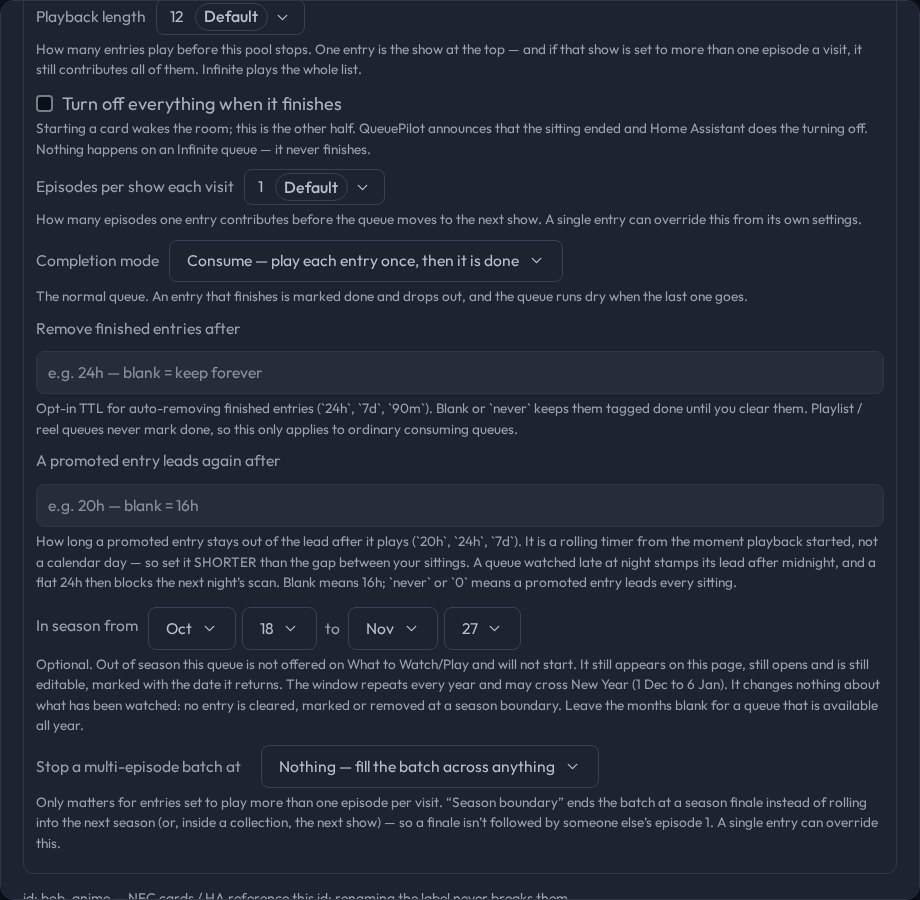
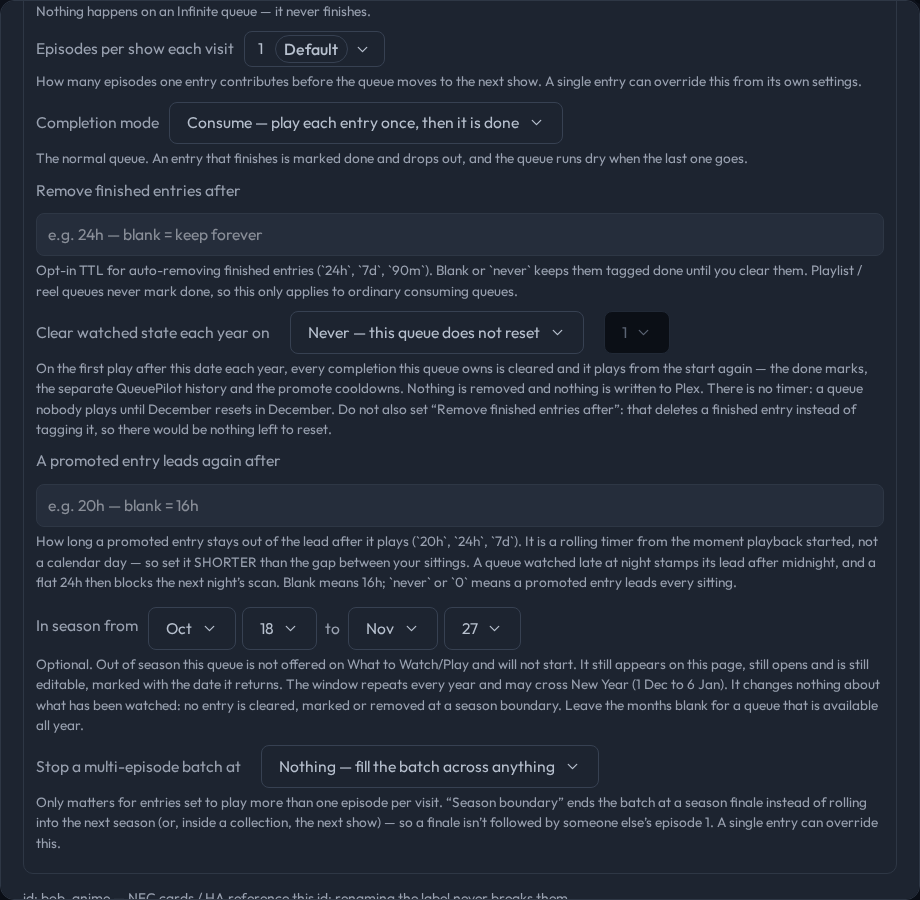
docs(season): re-take the after shots on the merged head
The seasonal-reset row (#317) now sits two rows above the season window in the
same modal, so the old 'after' shot no longer shows the editor anybody will
open. The two features are independent and the merged shot is the one that
says so: 'Clear watched state each year on' and 'In season from' are separate
rows with separate hints.

The narrow-view panel moves into the shot harness rather than staying a
one-off script, and it now asserts the page does not scroll sideways (378 at a
390 viewport).

Changed region(s): [[0.0304, 0.0, 0.9435, 0.4978], [0.5783, 0.0311, 0.913, 0.0933], [0.6087, 0.2178, 0.913, 0.2489]]

diff --git a/e2e/shot-season-window.ts b/e2e/shot-season-window.ts
@@ -122,6 +122,28 @@ try {
   const hasRow = await page.locator('#set-season').count();
   console.log(`queue editor: season row ${hasRow ? 'PRESENT ✓' : 'absent ✗'}`);
 
+  // ── 3. The same row in the NARROW VIEW ─────────────────────────────────────────────────
+  // Four pickers and the word "to" cannot sit on one line at 390px, so the row WRAPS as
+  // [month][day][to] / [month][day]. That break is the thing worth photographing: it has to
+  // read as one sentence across it, and it must not make the page scroll sideways.
+  const narrow = await browser.newPage({
+    colorScheme: 'dark',
+    viewport: { height: 844, width: 390 },
+  });
+  await narrow.goto(`${BASE}/q/bob_anime`, { waitUntil: 'domcontentloaded' });
+  await narrow.waitForSelector('#grid .tile .cap', { timeout: 30_000 });
+  await narrow.click('#qconfigure');
+  await narrow.waitForSelector('#set-season', { timeout: 10_000 });
+  await narrow.locator('#set-season').scrollIntoViewIfNeeded();
+  await narrow.waitForTimeout(400);
+  await narrow.locator('#setmodal').screenshot({ path: `${OUT}/season-window-narrow-${TAG}.png` });
+  console.log(`wrote ${OUT}/season-window-narrow-${TAG}.png`);
+  // A sideways scrollbar here is a FAILURE, not a cosmetic note — `e2e/narrow-scroll-test.ts`
+  // gates the same property for the rest of the app.
+  const width = await narrow.evaluate(() => document.documentElement.scrollWidth);
+  console.log(`narrow view: scrollWidth ${width} (viewport 390)`);
+  if (width > 390) { console.log('NARROW VIEW SCROLLS SIDEWAYS ✗'); failed = true; }
+
   await browser.close();
 } catch (e) {
   console.log('SHOT FAILED:', e);
